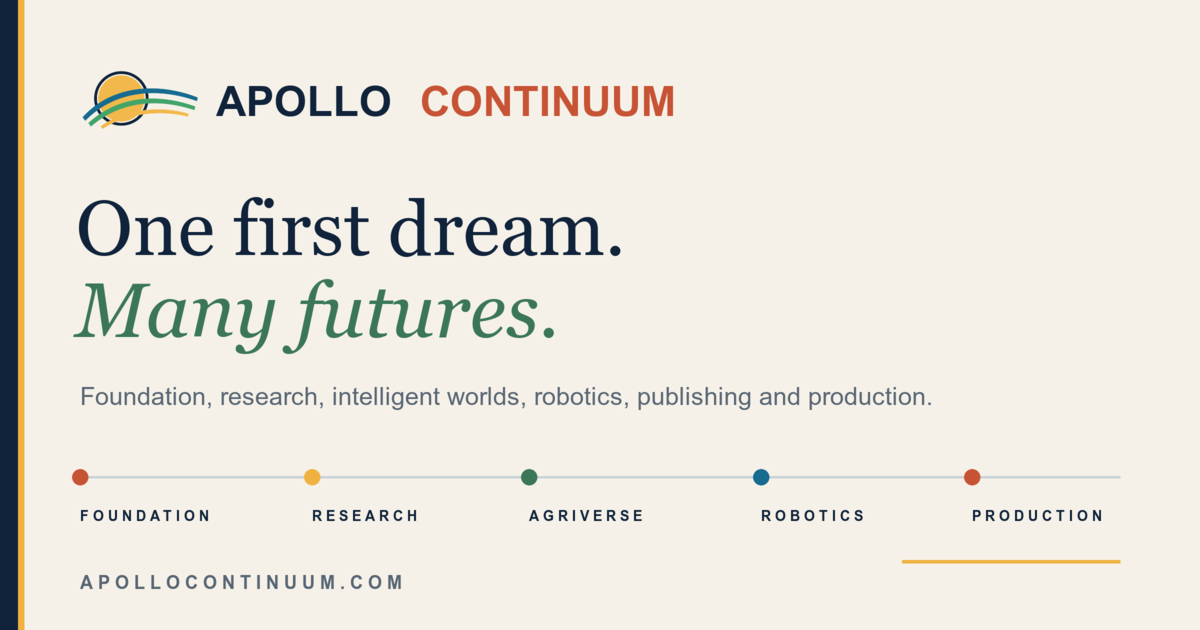
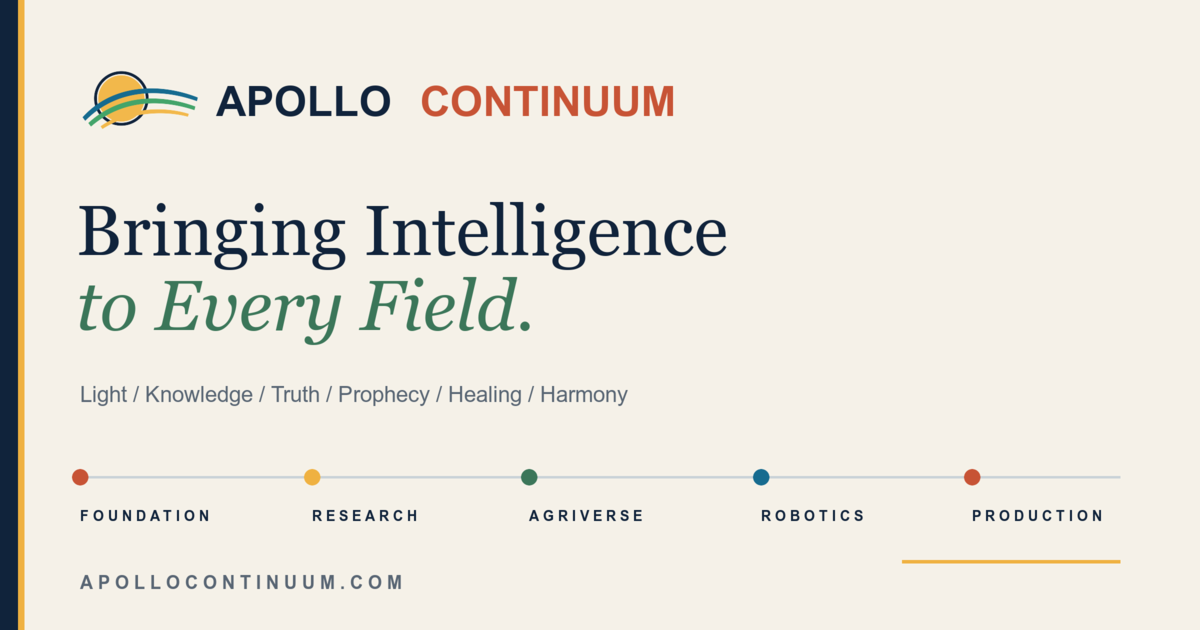
Align homepage preview with Apollo philosophy

Changed region(s): [[0.0617, 0.3016, 0.6167, 0.573], [0.0617, 0.6032, 0.7708, 0.6635]]

diff --git a/02_WEBSITE/index.html b/02_WEBSITE/index.html
@@ -1,1 +1,1 @@
-<!doctype html><html lang="en"><head><meta charset="utf-8"><meta name="viewport" content="width=device-width,initial-scale=1"><meta name="description" content="Apollo Continuum brings together the foundation, research, intelligent worlds, robotics, publishing, production and future work that grew from Apollo."><meta name="robots" content="index,follow,max-image-preview:large"><link rel="canonical" href="https://apollocontinuum.com/"><meta property="og:type" content="website"><meta property="og:locale" content="en_IN"><meta property="og:site_name" content="Apollo Continuum"><meta property="og:title" content="Apollo Continuum | One First Dream. Many Futures."><meta property="og:description" content="The public home of Apollo: foundation, research, intelligent worlds, robotics, publishing and production."><meta property="og:url" content="https://apollocontinuum.com/"><meta property="og:image" content="https://apollocontinuum.com/assets/apollo-continuum-og.png"><meta property="og:image:secure_url" content="https://apollocontinuum.com/assets/apollo-continuum-og.png"><meta property="og:image:type" content="image/png"><meta property="og:image:width" content="1200"><meta property="og:image:height" content="630"><meta property="og:image:alt" content="Apollo Continuum - One first dream. Many futures."><meta name="twitter:card" content="summary_large_image"><meta name="twitter:title" content="Apollo Continuum | One First Dream. Many Futures."><meta name="twitter:description" content="The public home of Apollo and the futures that grew from it."><meta name="twitter:image" content="https://apollocontinuum.com/assets/apollo-continuum-og.png"><meta name="twitter:image:alt" content="Apollo Continuum - One first dream. Many futures."><link rel="icon" type="image/png" sizes="32x32" href="./assets/favicon-32x32.png?v=20260820-1"><link rel="icon" type="image/svg+xml" href="./assets/apollo-app-icon.svg?v=20260820-1"><link rel="apple-touch-icon" sizes="180x180" href="./assets/apple-touch-icon.png?v=20260820-1"><link rel="manifest" href="./assets/site.webmanifest?v=20260820-1"><meta name="theme-color" content="#142b40"><link rel="stylesheet" href="./assets/site.css?v=20260819-7"><title>Apollo Continuum</title></head><body data-route="home"><header class="site-header"><div class="shell header-inner"><a class="brand" href="./" aria-label="Apollo Continuum"><img src="./assets/apollo-wordmark.svg?v=20260819-3" alt="Apollo"><span>Continuum</span></a><nav class="main-nav" aria-label="Primary"></nav><div><button class="theme-button" type="button" aria-label="Change color theme">Night</button><button class="menu-button" type="button" aria-label="Open menu" aria-expanded="false">Menu</button></div></div></header><div id="app"></div><footer class="site-footer"><div class="shell"><div class="footer-grid"><div><a class="footer-logo" href="./" aria-label="Apollo Continuum"><span class="footer-icon"><img src="./assets/apollo-wordmark.svg?v=20260819-3" alt=""></span><span>Apollo Continuum</span></a><p>The public ecosystem layer for an evolving Apollo identity.</p></div><div><h4>Worlds</h4><a href="./worlds/agriverse/">Apollo AgriVerse</a><a href="./robotics/">Apollo Robotics</a><a href="./production/">Apollo Production</a></div><div><h4>Records</h4><a href="./research/">Research</a><a href="./research/phase-one/">Mission I</a><a href="./publications/">Publications</a><a href="./projects/">Projects</a></div><div><h4>Context</h4><a href="./foundation/">Foundation</a><a href="./people/">People</a><a href="./innovation/sih/">SIH</a></div></div><p class="footer-bottom">Public ecosystem prototype. Project status is evidence-aware.</p></div></footer><script src="./data/apollo-registry.js?v=20260819-6"></script><script src="./assets/site.js?v=20260819-11"></script></body></html>
+<!doctype html><html lang="en"><head><meta charset="utf-8"><meta name="viewport" content="width=device-width,initial-scale=1"><meta name="description" content="Apollo Continuum brings together the foundation, research, intelligent worlds, robotics, publishing, production and future work that grew from Apollo."><meta name="robots" content="index,follow,max-image-preview:large"><link rel="canonical" href="https://apollocontinuum.com/"><meta property="og:type" content="website"><meta property="og:locale" content="en_IN"><meta property="og:site_name" content="Apollo Continuum"><meta property="og:title" content="Apollo Continuum | Bringing Intelligence to Every Field."><meta property="og:description" content="Apollo brings light, knowledge, truth, foresight, healing and harmony into an intelligence ecosystem built from foundation to future."><meta property="og:url" content="https://apollocontinuum.com/"><meta property="og:image" content="https://apollocontinuum.com/assets/apollo-continuum-og.png"><meta property="og:image:secure_url" content="https://apollocontinuum.com/assets/apollo-continuum-og.png"><meta property="og:image:type" content="image/png"><meta property="og:image:width" content="1200"><meta property="og:image:height" content="630"><meta property="og:image:alt" content="Apollo Continuum - Bringing Intelligence to Every Field."><meta name="twitter:card" content="summary_large_image"><meta name="twitter:title" content="Apollo Continuum | Bringing Intelligence to Every Field."><meta name="twitter:description" content="Apollo brings intelligence, foresight and evidence to every field."><meta name="twitter:image" content="https://apollocontinuum.com/assets/apollo-continuum-og.png"><meta name="twitter:image:alt" content="Apollo Continuum - Bringing Intelligence to Every Field."><link rel="icon" type="image/png" sizes="32x32" href="./assets/favicon-32x32.png?v=20260820-1"><link rel="icon" type="image/svg+xml" href="./assets/apollo-app-icon.svg?v=20260820-1"><link rel="apple-touch-icon" sizes="180x180" href="./assets/apple-touch-icon.png?v=20260820-1"><link rel="manifest" href="./assets/site.webmanifest?v=20260820-1"><meta name="theme-color" content="#142b40"><link rel="stylesheet" href="./assets/site.css?v=20260819-7"><title>Apollo Continuum</title></head><body data-route="home"><header class="site-header"><div class="shell header-inner"><a class="brand" href="./" aria-label="Apollo Continuum"><img src="./assets/apollo-wordmark.svg?v=20260819-3" alt="Apollo"><span>Continuum</span></a><nav class="main-nav" aria-label="Primary"></nav><div><button class="theme-button" type="button" aria-label="Change color theme">Night</button><button class="menu-button" type="button" aria-label="Open menu" aria-expanded="false">Menu</button></div></div></header><div id="app"></div><footer class="site-footer"><div class="shell"><div class="footer-grid"><div><a class="footer-logo" href="./" aria-label="Apollo Continuum"><span class="footer-icon"><img src="./assets/apollo-wordmark.svg?v=20260819-3" alt=""></span><span>Apollo Continuum</span></a><p>The public ecosystem layer for an evolving Apollo identity.</p></div><div><h4>Worlds</h4><a href="./worlds/agriverse/">Apollo AgriVerse</a><a href="./robotics/">Apollo Robotics</a><a href="./production/">Apollo Production</a></div><div><h4>Records</h4><a href="./research/">Research</a><a href="./research/phase-one/">Mission I</a><a href="./publications/">Publications</a><a href="./projects/">Projects</a></div><div><h4>Context</h4><a href="./foundation/">Foundation</a><a href="./people/">People</a><a href="./innovation/sih/">SIH</a></div></div><p class="footer-bottom">Public ecosystem prototype. Project status is evidence-aware.</p></div></footer><script src="./data/apollo-registry.js?v=20260819-6"></script><script src="./assets/site.js?v=20260819-11"></script></body></html>
